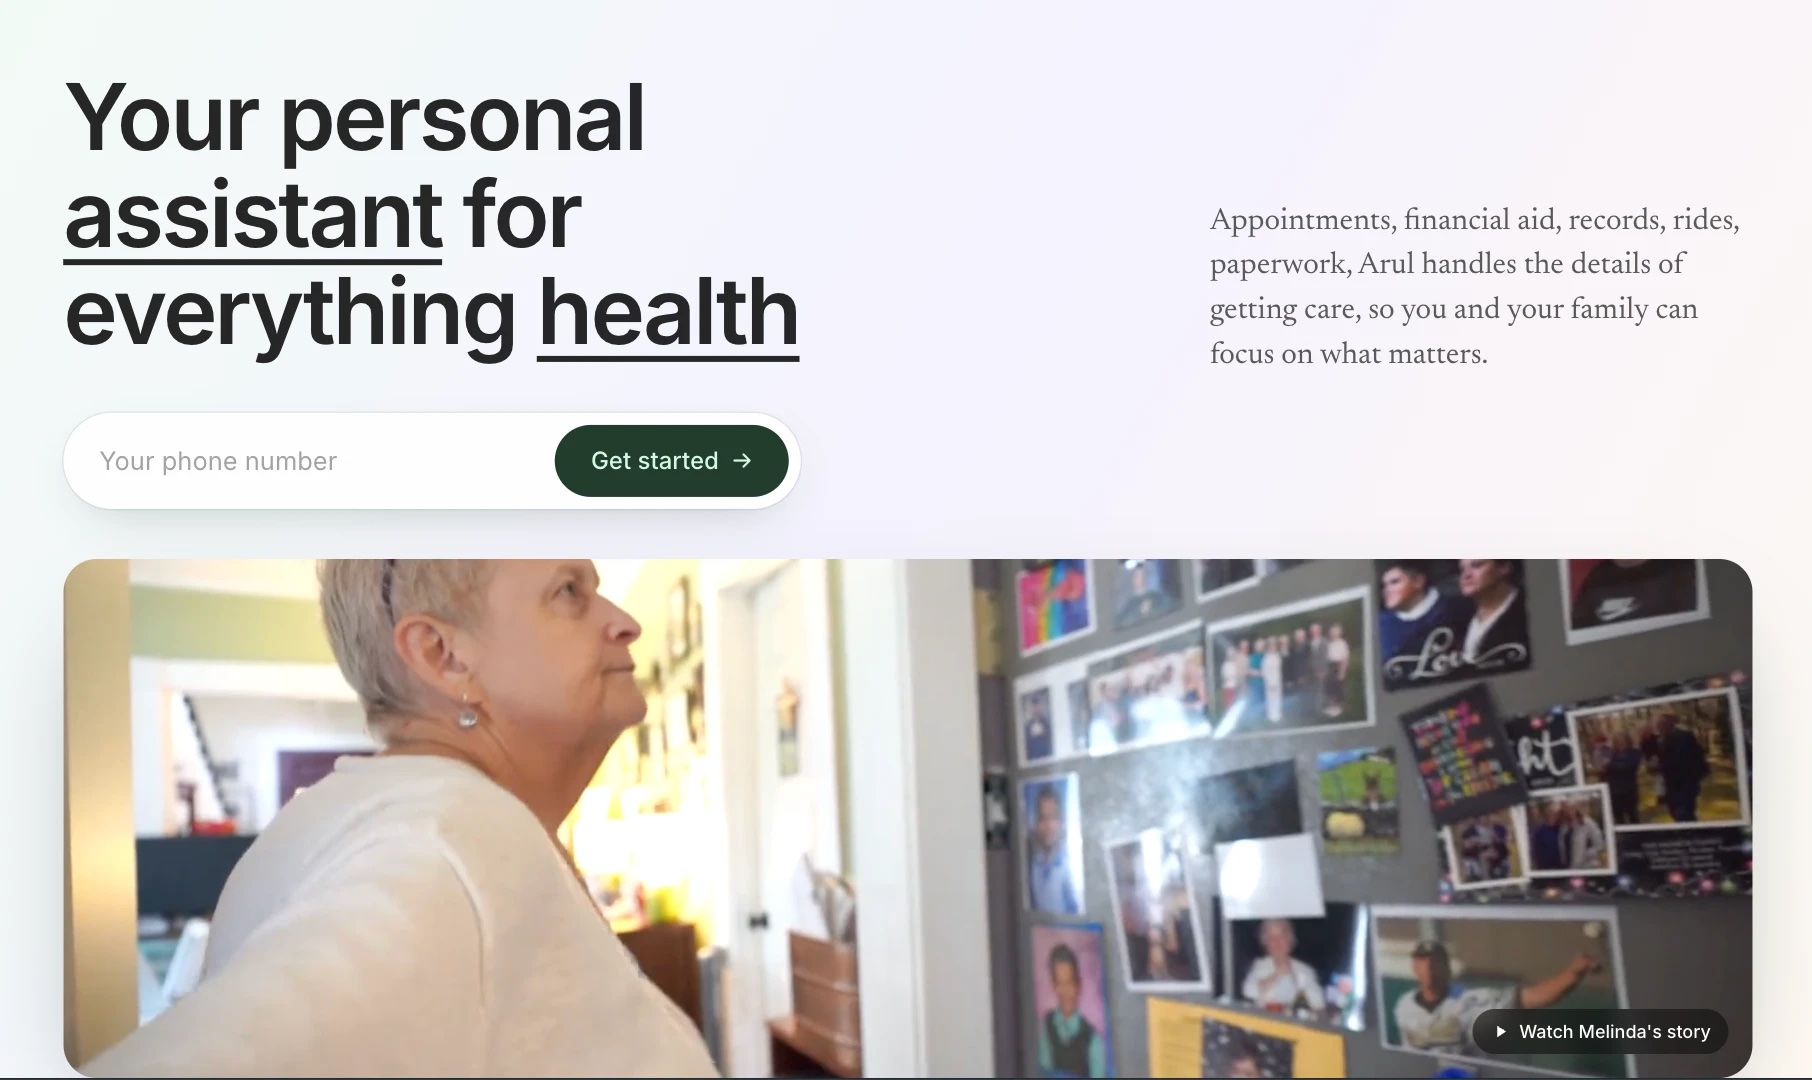
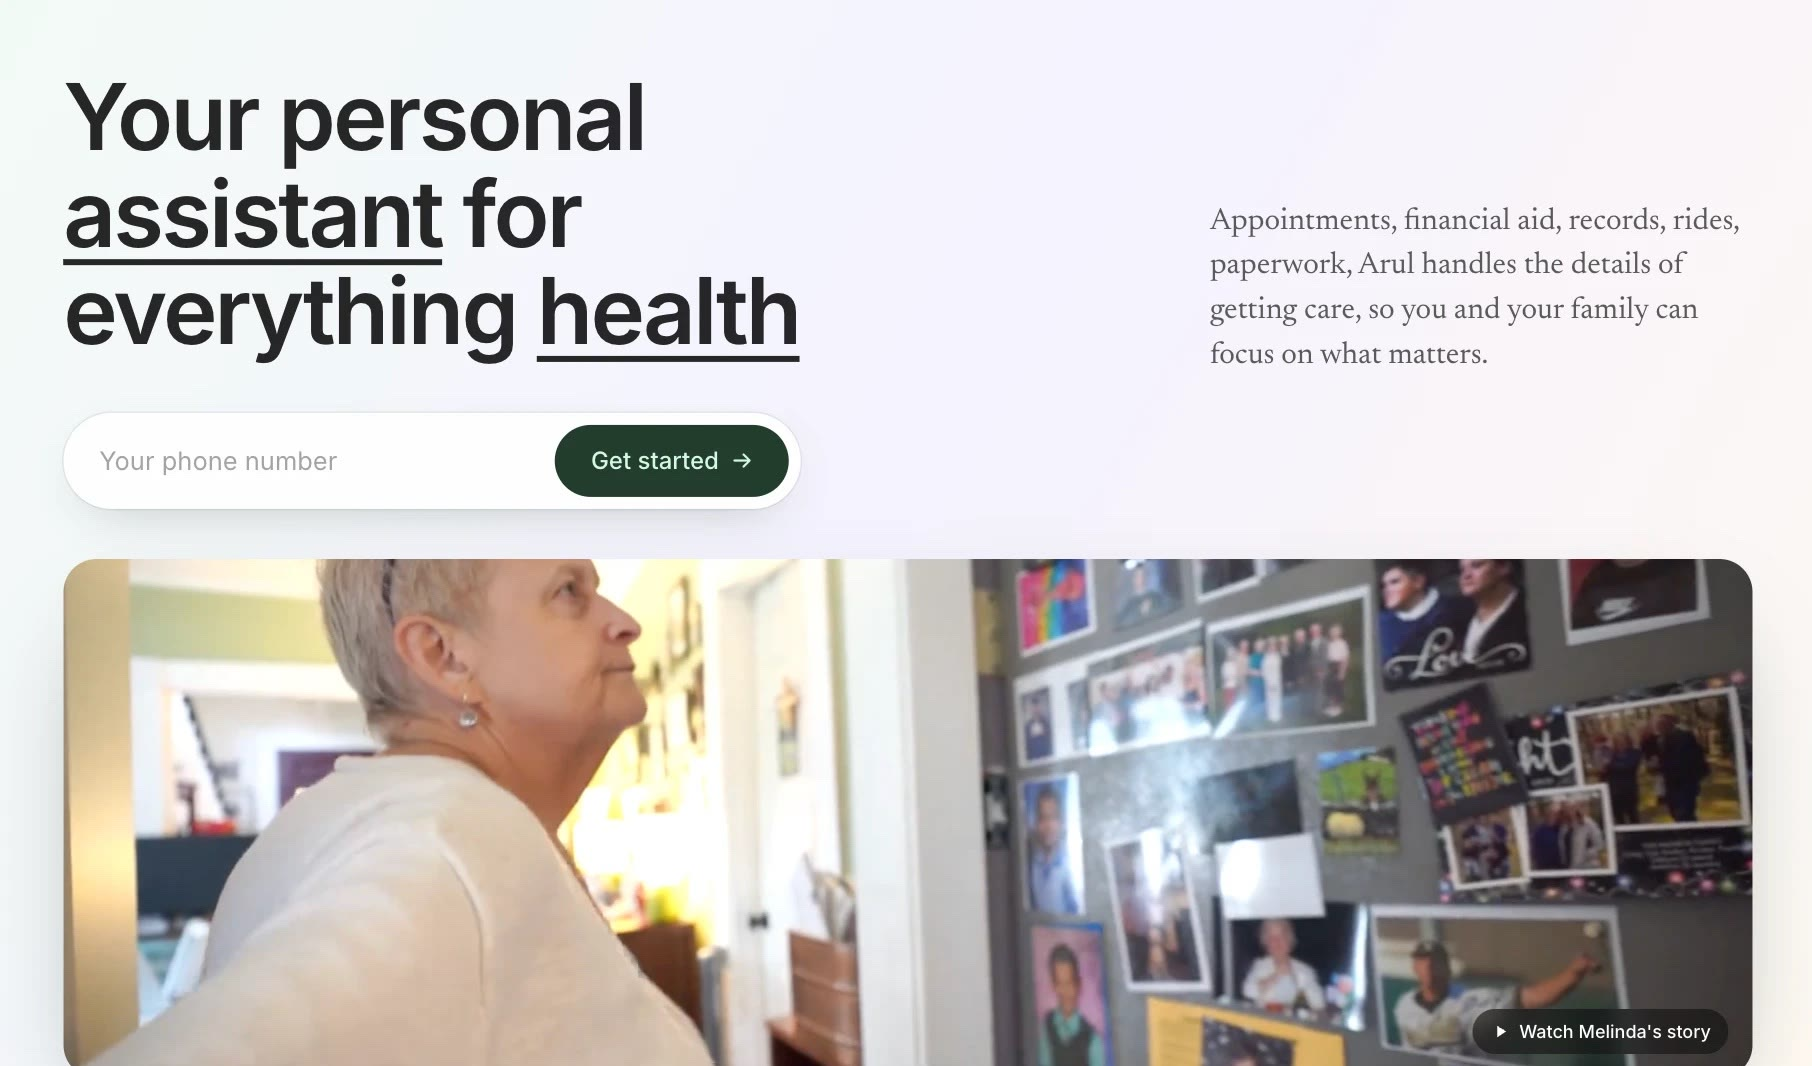
Trim the dark bar off the bottom of the resources image

diff --git a/index.html b/index.html
@@ -213,7 +213,7 @@
     <section class="resources" id="resources">
       <div class="wrap resources-inner">
         <div class="resources-media">
-          <img src="assets/photos/arul-hero.jpg" alt="The arulhealth.com home page: Your personal assistant for everything health, with a phone-number sign-up and a still from Melinda's story" width="1812" height="1080" loading="lazy">
+          <img src="assets/photos/arul-hero.jpg" alt="The arulhealth.com home page: Your personal assistant for everything health, with a phone-number sign-up and a still from Melinda's story" width="1812" height="1066" loading="lazy">
         </div>
         <div class="resources-copy">
           <h2>Our resources, research, and innovation</h2>

diff --git a/styles.css b/styles.css
@@ -302,7 +302,7 @@ h3 { font-family: var(--font-display); font-size: 28px; line-height: 36px; }
   justify-content: center; align-items: center;
   padding-top: 36px; padding-bottom: 36px;
 }
-.resources-media { aspect-ratio: 1812 / 1080; max-width: 100%; overflow: hidden; border-radius: 8px; background: #f6f4f9; }
+.resources-media { aspect-ratio: 1812 / 1066; max-width: 100%; overflow: hidden; border-radius: 8px; background: #f6f4f9; }
 .resources-media img { width: 100%; height: 100%; object-fit: cover; }
 .resources-copy h2 { max-width: 320px; }
 .resources-copy p { font-size: 18px; line-height: 28px; padding-top: 16px; max-width: 448px; text-wrap: pretty; }

diff --git a/README.md b/README.md
@@ -31,7 +31,7 @@ Measured from google.org at 1512px wide and reproduced here:
 | Feature image | 1296 × 729 (the Arul Health brand image) |
 | Our focus | h2 48px / 56px; lede 28px / 36px; 3 columns, 64px gap, 3:4 images with 8px top radius; 28px titles, 16px `#5f6368` copy, "Learn more" link + chevron |
 | Our impact | h2 48px / 56px; lede 28px / 36px; four figures at 48px / 56px with 16px `#5f6368` labels (not on google.org's homepage; added so the "Our impact" nav link has an in-page target) |
-| Resources | 502px image (the arulhealth.com home page, 1812:1080) + 502px copy, 64px gap; h2 48px / 56px; 18px / 28px copy |
+| Resources | 502px image (the arulhealth.com home page, 1812:1066) + 502px copy, 64px gap; h2 48px / 56px; 18px / 28px copy |
 | Footer | `#f8f9fa`; single row: logo + About Arul Health, Help, copyright (the link columns, Privacy and Terms were removed on request) |
 
 Google's blue (`#1a73e8`) is swapped for the violet in the Arul wordmark (`#8e4dff`); every other color is google.org's neutral palette.
